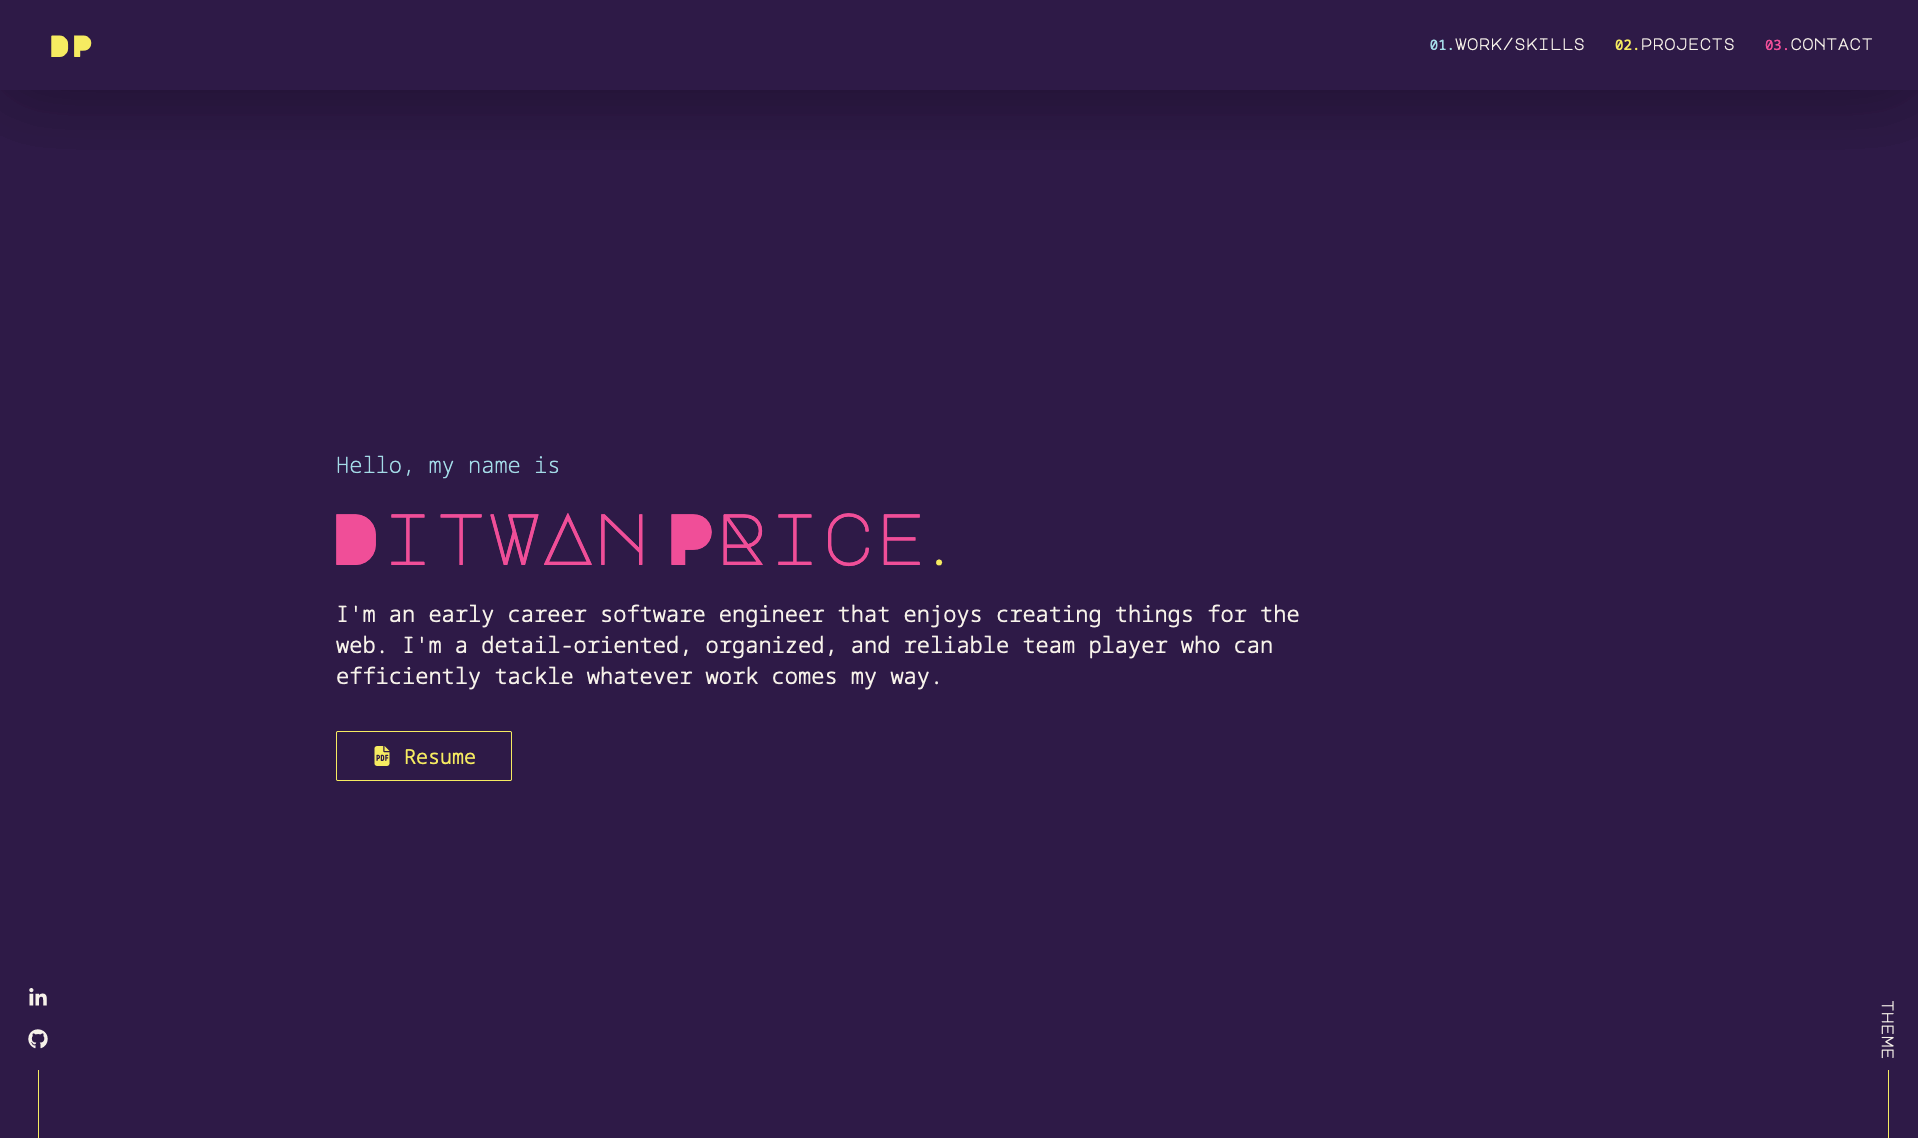
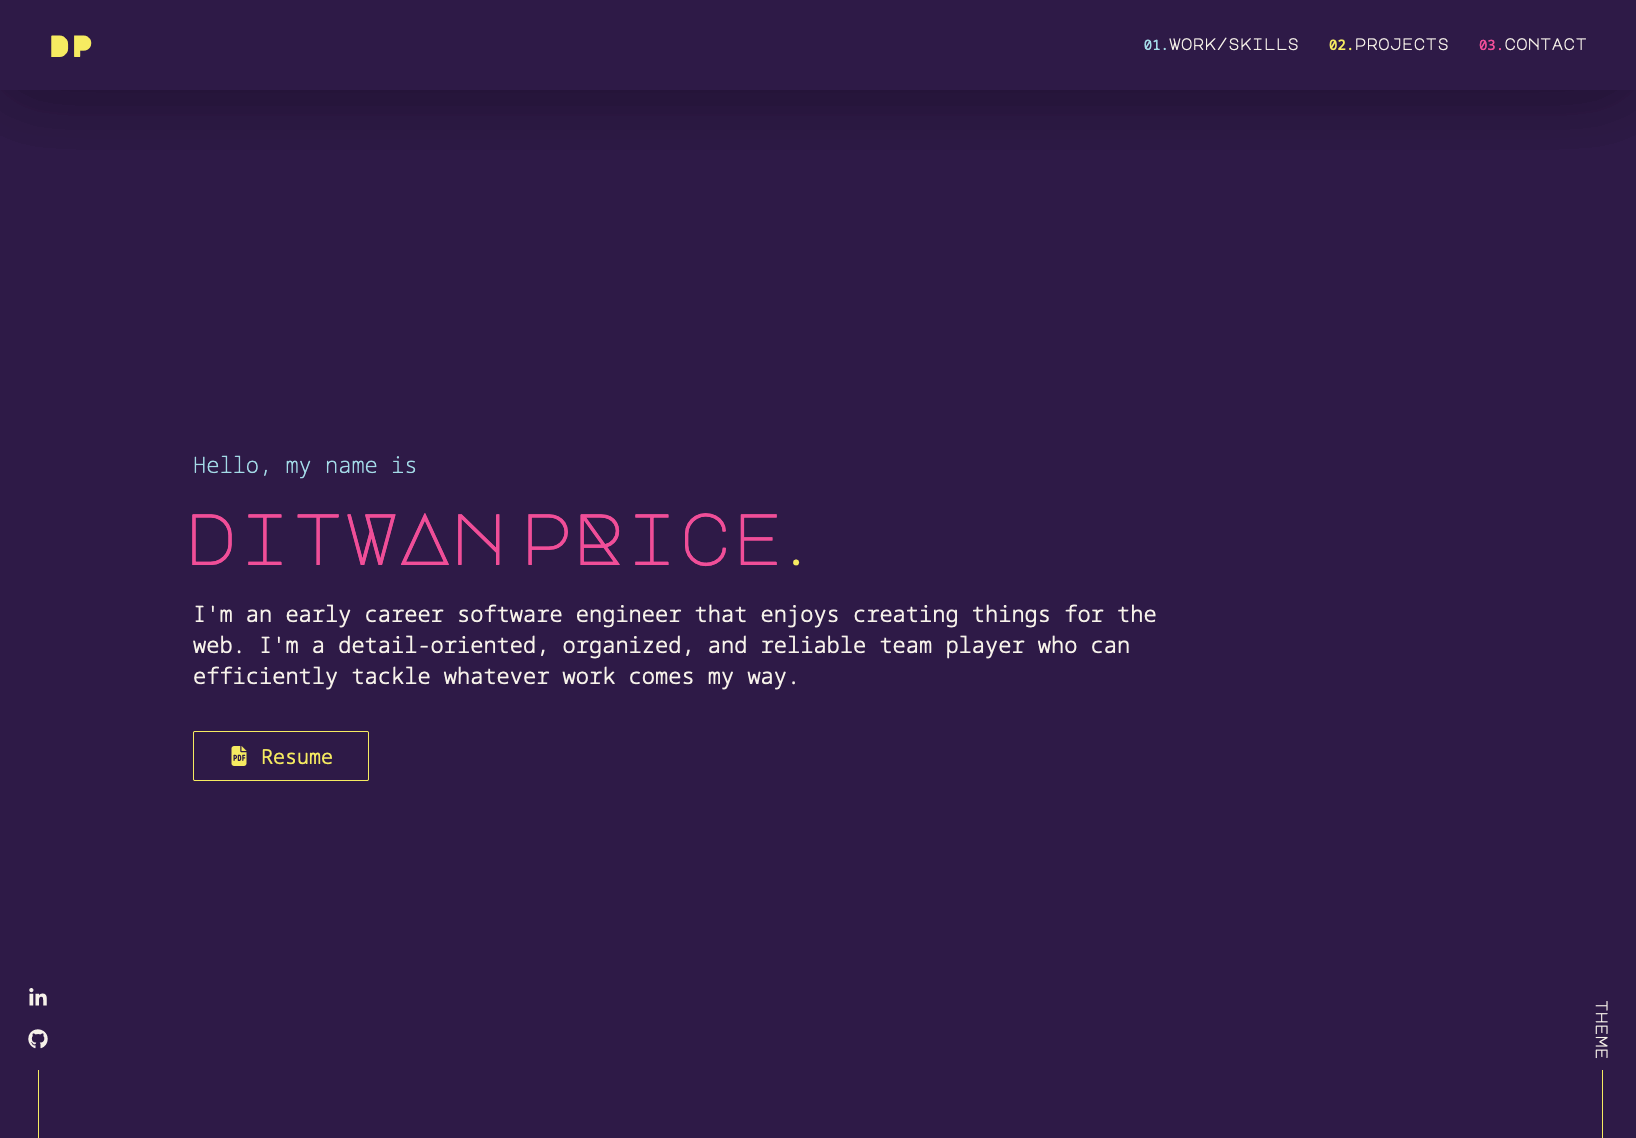
change name on home page and preview img

diff --git a/src/components/Home.js b/src/components/Home.js
@@ -65,7 +65,7 @@ const Home = () => {
               onMouseEnter={toggleFirstName}
               className={plainFirstName ? "name-chars-hidden" : "name-chars"}
             >
-              DitWAn
+              ditWAn
             </h1>
             <h1
               onMouseLeave={toggleFirstName}
@@ -83,7 +83,7 @@ const Home = () => {
               onMouseEnter={toggleLastName}
               className={plainLastName ? "name-chars-hidden" : "name-chars"}
             >
-              PRice<span>.</span>
+              pRice<span>.</span>
             </h1>
             <h1
               onMouseLeave={toggleLastName}
